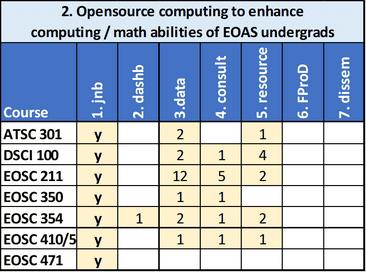
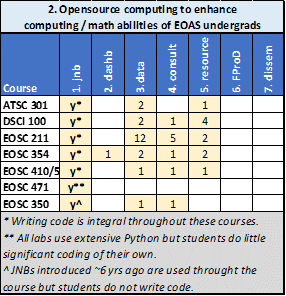
to May 15

diff --git a/docs/execsum.md b/docs/execsum.md
@@ -1,4 +1,4 @@
-# OCESE project outcomes summary
+# OCESE project Executive Summary
 
 ## 1. OCESE PROJECT GOALS
 
@@ -17,27 +17,29 @@
 6. Support the FoS minor in Data Science and DSCI 100
 7. Introduce resulting materials and practices as Open Education Resources
 
-### 1.2 Primary goals explained
+### 1.2 Primary goals
 
-**1. Quantitative Earth Science for all EOAS students**
+#### 1.2.1 Quantitative Earth Science for all EOAS students
 
-Courses aiming to enhance students' engagement with **quantitative concepts** or **datasets** are mostly accessible to students from Departments other than EOAS.
+Courses aiming to enhance students' engagement with **quantitative Earth science concepts** or **datasets** are mostly elective courses that are accessible to students from departments other than EOAS.
 
-**2. Computational & numerical capabilities of students pursuing EOAS degrees**
+#### 1.2.2 Computational & numerical capabilities of students pursuing EOAS degrees
 
-Courses aiming to increase computational and numerical capabilities of EOAS students are considered "core" courses. OCESE contributed towards these courses mostly by supporting introduction of **Python** and **Jupyter Notebooks** into student learning.
+Courses aiming to increase computational and numerical capabilities of EOAS students are considered "core" courses. OCESE contributed towards these courses mostly by supporting introduction of **Python** and **Jupyter Notebooks** into student learning. The OCESE project has improved the following courses:
 
-* Courses in which students install Python and Jupyter on their own computers:
+**Students install Python and Jupyter on their own computers** in these courses:
 
   >ATSC301, EOSC211 (optional), EOSC354, EOSC410/510.
 
-* Courses in which students run notebooks on cloud-based Jupyter hubs (either UBC or 2i2c hubs):
+**Students' notebooks run on cloud-based Jupyter hubs** (either UBC or 2i2c hubs):
 
   >DSCI100, EOSC211, EOSC213 (using CoLab), EOSC212 (OCESE not involved), EOSC350, EOSC442, EOSC471 (starting 2024).
 
-Courses in which students use (or will likely use) **coding** as part of learning. Not all had OCESE support. (Based on the Dep't computing needs [s](https://docs.google.com/spreadsheets/d/1Lg9wLZYwIHSVyXzFPO3096d8eLvL6oLn9lShOosBBok/edit#gid=0)preadsheet as of March 2023.)
+**Students use coding** as part of learning in the following courses. (Based on the Dep't computing needs [s](https://docs.google.com/spreadsheets/d/1Lg9wLZYwIHSVyXzFPO3096d8eLvL6oLn9lShOosBBok/edit#gid=0)preadsheet as of March 2023.)
 
->ATSC301, ATSC409, ENVR420, EOSC211, EOSC212, EOSC213, EOSC353, EOSC354, EOSC410/510, EOSC450, EOSC453, EOSC471, EOSC4xx (climate physics, new 2023/4).
+>Recieved OCESE support: EOSC211, EOSC354, EOSC410/510, EOSC471, ATSC301.
+
+>No OCESE support: ATSC409, ENVR420, EOSC212, EOSC213, EOSC353, EOSC450, EOSC453, EOSC4xx (climate physics, new 2023/4).
 
 **Assessment or question management**: the following courses have integrated some aspects of managing, automating or "semi-automating" assessments or develeopment / deployment of question sets.
 
@@ -45,7 +47,7 @@ Courses in which students use (or will likely use) **coding** as part of learnin
 
 ---
 
-### 1.3 Further details about the five supporting goals
+### 1.3 Five supporting goals
 
 **3. Teaching and learning support for instructors and TAs**
 
@@ -67,7 +69,7 @@ Project outcomes associated with implenting cloud computing facilities to host s
 
 DSCI100 is taught in the UBC Department of Statistics, but this new Python section was first taught by Prof. L. Heagy of the Dep't of EOAS in winter 2023. This major course adapation involved the following activities carried out between 2021 and 2023.
 
-* Adapting the R-based textbook to Python.
+* Adapting the R-based textbook to Python. The result is [online](https://python.datasciencebook.ca/intro.html), and the [source is on GitHub](https://github.com/UBC-DSCI/introduction-to-datascience-python).
 * Adapting all learning worksheets from R to Python.
 * Adapting teaching materials (slide decks, classroom materials, etc.) from R to Python.
 * Teaching the first "Python cohort" of this course.
@@ -104,13 +106,13 @@ Seven types of contributions emerged from OCESE project work:
 3. Data gathered about students’ and instructors’ experiences.
 4. Consulting regarding content, learning, pedagogy, or logistics.
 5. Resources: Guidelines for Python, JNBs, GitHub, dashboards, etc.
-6. Faculty professional development: COVID  mainly 1-on-1 consulting.
-7. Dissemination: 6 UBC events and 5 events beyond UBC.
+6. Faculty professional development: COVID caused this to be delived mainly as 1-on-1 consulting.
+7. Dissemination: Six UBC events and 5 events beyond UBC.
 
 **Further details**
 
 1. **Python Jupyter Notebooks** were introduced for 8 courses; 6 core EOAS courses plus EOSC442 and DSCI100.
-2. **Dashboards** used (or planned) in 10 courses, 5 each core and service. Assignments rely on dashboards in 5 courses, others are used for demonstration, class activities or optional.
+2. **Dashboards** are used (or planned) in 10 courses, 5 each core EOAS courses and service (or elective) courses. Assignments rely on dashboards in 5 courses, others use dashboards for demonstration, class activities or as optional enrichment resources. [Fifteen apps were designed and built](dashboards.md). Eleven are live to view. Code will be made publically accessible on GitHub. Much was learned about techniques for designing, building, deploying and teaching or learning. Corresponding guidelines have been included; see "Guides" and "Tutorials" sections of the left-hand menu.
 3. **Data** gathered from or about students in 6 courses for feedback on dashboards or JNBs. Other data include discussion threads (TAs, instructors & developers), midterm course feedback, and surveys about prior knowledge & needs during COVID.
 4. **Consulting, or support for EOAS faculty**
    * The work of improving all 25 courses included consulting with corresponding instructors and teaching assistants about content, activities, and/or assessments.
@@ -135,6 +137,15 @@ The seven types of contributions addressed our project goals 1 and 2 in targeted
 :align: center
 ```
 <BR>
+
+Converting courses to Python involved the following aspects:
+
+```{image} images/table-courseconversions.png
+:alt: ocese outcomes by type
+:align: center
+```
+<BR>
+
 
 The seven types of project outcomes contributed in ways not related to specific coures as follows:
 

diff --git a/docs/course_materials.md b/docs/course_materials.md
@@ -31,7 +31,7 @@ Courses that were supported by OCESE project components.
 | EOSC310 | The Earth and the Solar System                                  | Dashboard                                                | 2021W, online section only. |
 | EOSC325 | Principles of Physical Hydrogeology                             | 3 dashboards & consulting                                | New course, 2021W. |
 | EOSC340 | Global Climate Change:                                          | Dashboard(s) & question management                       | 2021W: prairielearn. 2022W: prairielearn + CMIP6 dashboard. |
-| EOSC350 | Environmental, Geotechnical, and Exploration Geophysics I       | Online conversion; Hubs                                  | Pre-existing suite of dashboardapps. 2020W: online "field" labs. 2021W: hub only. 2022W: hub only. |
+| EOSC350 | Environmental, Geotechnical, and Exploration Geophysics I       | Online conversion; Hubs                                  | Pre-existing suite of Jupyter Notebooks used as 'apps' with no student programming. 2020W: online "field" labs. 2021W: hub only. 2022W: hub only. |
 | EOSC354 | Analysis of Time Series and Inverse Theory for Earth Scientists | Convert from MatLab to Python & JNBs                     | 10 assigs: JNBs + workflow for delivery and assessment. |
 | EOSC372 | Introductory Oceanography: Circulation and Plankton             | One dashboard                                            | Properties of ocean column. |
 | EOSC425 | Palaeontology                                                   | Dashboard                                                | One only. |
